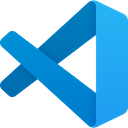
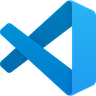
툴 이미지 등록

diff --git a/index.md b/index.md
@@ -2,66 +2,23 @@
 
 프로그래머(개발자)를 위한 핫키(단축키) 인덱스 입니다.
 
-## 맥용
+## ![로고](img/apple.png) Mac
 
 앱명 | 다운로드 | 바로가기
 ------------ | ------------- | ------------- 
-![로고](https://www.eclipse.org/downloads/assets/public/images/logo-eclipse.png) | [Get Eclipse IDE 2020‑09](www.eclipse.org/downloads/download.php) | [핫키](https://github.com/appskey/appskey.github.io/edit/master/index.md) 
+![로고](img/eclipse.png) | [Get Eclipse IDE 2020‑09](www.eclipse.org/downloads/download.php) | [핫키](https://github.com/appskey/appskey.github.io/edit/master/index.md) 
+![로고](img/vscode.png) | [Visual Studio Code](https://code.visualstudio.com) | [핫키](https://github.com/appskey/appskey.github.io/edit/master/index.md) 
+![로고](img/phpstorm.png) | [PhpStorm](https://www.jetbrains.com/ko-kr/phpstorm/download/download-thanks.html) | [핫키](https://github.com/appskey/appskey.github.io/edit/master/index.md) 
+
+
+
+## ![로고](img/windows.png) Windows10
+
+앱명 | 다운로드 | 바로가기
+------------ | ------------- | ------------- 
+![로고](img/eclipse.png) | [Get Eclipse IDE 2020‑09](www.eclipse.org/downloads/download.php) | [핫키](https://github.com/appskey/appskey.github.io/edit/master/index.md) 
 ![로고](img/vscode.png) | [Visual Studio Code](https://code.visualstudio.com) | [핫키](https://github.com/appskey/appskey.github.io/edit/master/index.md) 
 
-
-
-
-
-### eclipse (이클립스)
-[이클립스 핫키바로가기](https://github.com/appskey/appskey.github.io/edit/master/index.md)
-
-
-### VS Code
-### Php Storm
-
-
-
-## 윈도우용 
-
-### eclipse (이클립스)
-### VS Code
-### 엑셀
-### 아래한글
-
-## Welcome to GitHub Pages
-
-You can use the [editor on GitHub](https://github.com/appskey/appskey.github.io/edit/master/index.md) to maintain and preview the content for your website in Markdown files.
-
-Whenever you commit to this repository, GitHub Pages will run [Jekyll](https://jekyllrb.com/) to rebuild the pages in your site, from the content in your Markdown files.
-
-### Markdown
-
-Markdown is a lightweight and easy-to-use syntax for styling your writing. It includes conventions for
-
-```markdown
-Syntax highlighted code block
-
-# Header 1
-## Header 2
-### Header 3
-
-- Bulleted
-- List
-
-1. Numbered
-2. List
-
-**Bold** and _Italic_ and `Code` text
-
-[Link](url) and ![Image](src)
-```
-
-For more details see [GitHub Flavored Markdown](https://guides.github.com/features/mastering-markdown/).
-
-### Jekyll Themes
-
-Your Pages site will use the layout and styles from the Jekyll theme you have selected in your [repository settings](https://github.com/appskey/appskey.github.io/settings). The name of this theme is saved in the Jekyll `_config.yml` configuration file.
 
 ### Support or Contact
 
